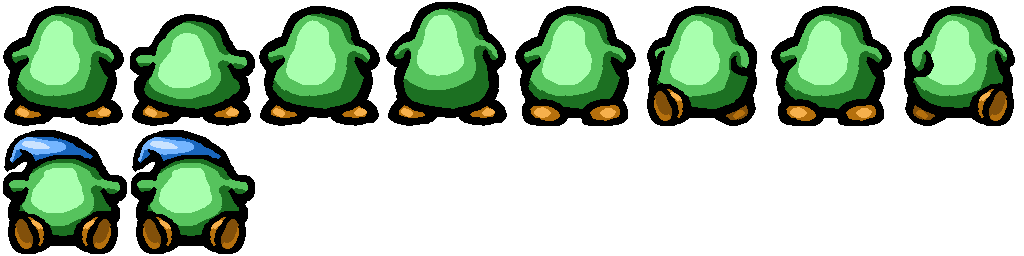
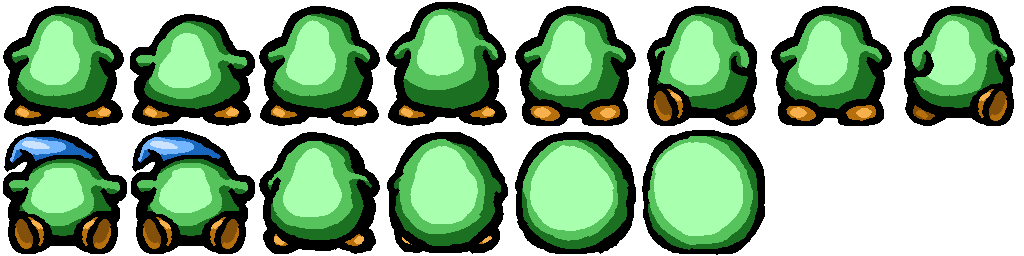
More colors, transform animation

Changed region(s): [[0.25, 0.5, 0.75, 1.0]]

diff --git a/src/Scenes/Game/Worker.cpp b/src/Scenes/Game/Worker.cpp
@@ -11,6 +11,7 @@
 
 // Constants
 static const float MOVE_TIME = 20;
+static const float TRANSFORM_TIME = 20;
 
 // Bitmap
 static Bitmap* bmpWorker;
@@ -73,7 +74,6 @@ void Worker::control(EventManager* evMan,
     float dist = hypotf(stick.x, stick.y);
     if(dist < DELTA) {
 
-        stopped = false;
         return;
     }
 
@@ -105,8 +105,6 @@ void Worker::control(EventManager* evMan,
         target.x = pos.x;
         target.y = pos.y;
 
-        stopped = false;
-
         return;
     }
 
@@ -117,7 +115,6 @@ void Worker::control(EventManager* evMan,
 
     // Update solid data
     stage->updateSolid(pos.x, pos.y, 0);
-    
 }
 
 
@@ -147,7 +144,6 @@ void Worker::move(Stage* stage, float tm) {
 
         moveTimer = 0.0f;
         moving = false;
-        stopped = true;
 
         pos.x = target.x;
         pos.y = target.y;
@@ -185,13 +181,31 @@ void Worker::animate(float tm) {
         // Awake
         else {
 
-            bool cond = (stopped || moving);
+            bool cond = (moving);
             int frameSkip = cond ? 4 : 0;
 
             // Animate sprite
             spr.animate(color*2, frameSkip, frameSkip+3, 
                 cond ? WALK_SPEED : STAND_SPEED, tm);
         }
+    }
+}
+
+
+// Transform
+void Worker::transform(float tm) {
+
+    const float ANIM_SPEED = 3.0f;
+
+    // Animate
+    if(spr.getFrame() != 5 || spr.getRow() != color*2+1)
+        spr.animate(color*2+1, 2, 5, ANIM_SPEED, tm);
+
+    // Update timer
+    transfTimer -= 1.0f *tm;
+    if(transfTimer <= 0.0f) {
+
+        transforming = false;
     }
 }
 
@@ -210,6 +224,8 @@ void Worker::checkCogCollision(Stage* stage) {
 
         isCog = true;
         moving = false;
+        transforming = true;
+        transfTimer = TRANSFORM_TIME;
 
         stage->updateSolid(pos.x, pos.y, 3+color);
     }
@@ -231,10 +247,11 @@ Worker::Worker(Point p, int color, bool sleeping, bool isCog) {
     angle = 0.0f;
 
     // Set defaults
-    stopped = false;
     moving = false;
     moveTimer = 0.0f;
     startedMoving = false;
+    transforming = false;
+    transfTimer = 0.0f;
 
     // Create sprite
     spr = Sprite(128, 128);
@@ -260,6 +277,12 @@ void Worker::update(EventManager* evMan, Stage* stage,
 
     startedMoving = false;
 
+    // Transform
+    if(isCog && transforming) {
+
+        transform(tm);
+    }
+
     // Control
     control(evMan, stage, anyMoving);
     // Move
@@ -273,26 +296,52 @@ void Worker::update(EventManager* evMan, Stage* stage,
 void Worker::draw(Graphics* g) {
 
     const float COG_SCALE = 1.2f;
+    const float TRANSF_SCALE = 1.5f;
+    const int TRANSF_FRAMES = 3;
 
     if(isCog) {
+
+        float t = transforming ? transfTimer / TRANSFORM_TIME : 0.0f;
 
         g->push();
         g->translate(vpos.x+BASE_TILE_SIZE/2, 
             vpos.y+BASE_TILE_SIZE/2);
         g->rotate(angle);
-        g->scale(COG_SCALE, COG_SCALE);
+        g->scale(COG_SCALE*(1-t), COG_SCALE*(1-t));
         g->useTransf();
 
         // Draw cog
-        spr.draw(g, bmpWorker, 7, 1, 
+        spr.draw(g, bmpWorker, 7, color*2+1, 
             -BASE_TILE_SIZE/2,
             -BASE_TILE_SIZE/2);
 
         g->pop();
         g->useTransf();
 
+        // Draw transforming sprite
+        if(transforming) {
+
+            float s = 1.0f + (1.0f-t) * (TRANSF_SCALE-1.0f);
+
+            g->push();
+            g->translate(vpos.x+BASE_TILE_SIZE/2, 
+                vpos.y+BASE_TILE_SIZE/2);
+            g->scale(s, s);
+            g->useTransf();
+
+            g->setColor(1,1,1, t);
+            spr.draw(g, bmpWorker,
+                -BASE_TILE_SIZE/2,
+                -BASE_TILE_SIZE/2);
+            g->setColor();
+
+            g->pop();
+            g->useTransf();
+            
+        }
+
         // Draw eyes/face
-        spr.draw(g, bmpWorker, 6, 1, vpos.x, vpos.y);
+        spr.draw(g, bmpWorker, 6, color*2+1, vpos.x, vpos.y);
 
     }
     else {

diff --git a/src/Scenes/Game/Stage.cpp b/src/Scenes/Game/Stage.cpp
@@ -226,12 +226,8 @@ Stage::Stage(std::string mapPath) {
     width = tmap->getWidth();
     height = tmap->getHeight();
 
-    // Set default solid data
-    solid = std::vector<int> (width*height);
-    for(int i = 0; i < width*height; ++ i) {
-
-        solid[i] = data[i] == 1 ? 1 : 0;
-    }
+    // (Re)set some data
+    reset();
 
     // Compute scale
     baseWidth = width * BASE_TILE_SIZE;
@@ -247,6 +243,18 @@ Stage::Stage(std::string mapPath) {
 Stage::~Stage() {
 
     delete tmap;
+}
+
+
+// Reset
+void Stage::reset() {
+
+    // Set default solid data
+    solid = std::vector<int> (width*height);
+    for(int i = 0; i < width*height; ++ i) {
+
+        solid[i] = data[i] == 1 ? 1 : 0;
+    }
 }
 
 
@@ -313,8 +321,8 @@ void Stage::parseMap(Communicator &comm) {
             // Update solid data
             int solid = 2;
             if(sleeping) solid = 1;
-            if(isCog) solid = 3;
-            updateSolid(p.x, p.y, solid+color);
+            if(isCog) solid = 3+color;
+            updateSolid(p.x, p.y, solid);
         }
     }
 }

diff --git a/src/Scenes/Game/Game.cpp b/src/Scenes/Game/Game.cpp
@@ -12,6 +12,20 @@
 #include <GLFW/glfw3.h>
 
 
+// Reset the current game state
+void Game::reset() {
+
+    // Reset stage
+    stage->reset();
+    // Reset hud
+    hud.reset();
+
+    // Reset workers
+    workers.clear();
+    stage->parseMap(comm);
+}
+
+
 // Initialize scene
 void Game::init() {
 
@@ -42,6 +56,12 @@ void Game::init() {
 // Update scene
 void Game::update(float tm) {
 
+    // Reset
+    if(evMan->getController()->getButton("reset") == State::Pressed) {
+
+        reset();
+    }
+
     // "Pre-update"
     bool anyMoving = false;
     for(int i = 0; i < workers.size(); ++ i) {
@@ -50,7 +70,7 @@ void Game::update(float tm) {
         workers[i].checkCogCollision(stage);
 
         // Is moving
-        if(!anyMoving && workers[i].isMoving()) {
+        if(!anyMoving && workers[i].isActive()) {
 
             anyMoving = true;
         }
@@ -109,6 +129,7 @@ void Game::dispose() {
 void Game::onChange() {
 
     // ...
+    
 }
 
 

diff --git a/src/Scenes/Game/Worker.hpp b/src/Scenes/Game/Worker.hpp
@@ -32,6 +32,11 @@ private:
     // Has started moving
     bool startedMoving;
 
+    // Is transforming
+    bool transforming;
+    // Transform timer
+    float transfTimer;
+
     // Cog angle
     float angle;
 
@@ -55,6 +60,9 @@ private:
     void move(Stage* stage, float tm);
     // Animate
     void animate(float tm);
+    
+    // Transform
+    void transform(float tm);
 
 public:
 
@@ -79,6 +87,10 @@ public:
     inline bool hasStartedMoving() {
 
         return startedMoving;
+    }
+    inline bool isActive() {
+
+        return transforming || moving;
     }
 };
 

diff --git a/src/Core/InputListener.cpp b/src/Core/InputListener.cpp
@@ -79,13 +79,6 @@ int InputListener::getInputState(std::vector<int> arr, int index) {
 }
 
 
-// Update joystick hat
-void InputListener::updateJoyHat(const uint8* buttons) {
-
-    
-}
-
-
 // Update joystick
 void InputListener::updateJoystick(float x, float y) {
 
@@ -175,9 +168,5 @@ void InputListener::updateInput() {
 			}
 			joybuffer[i] = state;
         }
-
-        // Update joy hat
-        updateJoyHat(buttons);
-        
     }
 }

diff --git a/src/Core/InputListener.hpp b/src/Core/InputListener.hpp
@@ -46,9 +46,6 @@ protected:
     // Get input state
     int getInputState(std::vector<int> arr, int index);
 
-    // Update joystick hat
-    void updateJoyHat(const uint8* buttons);
-
 public:
 
     // Keyboard events

diff --git a/src/Scenes/Game/Stage.hpp b/src/Scenes/Game/Stage.hpp
@@ -67,6 +67,8 @@ public:
     // Desctructor
     ~Stage();
 
+    // Reset
+    void reset();
     // Parse map for objects
     void parseMap(Communicator &comm);
 

diff --git a/src/Scenes/Game/Game.hpp b/src/Scenes/Game/Game.hpp
@@ -28,6 +28,9 @@ private:
 
 public:
 
+    // Reset the current game state
+    void reset();
+
     // Initialize scene
     void init();
     // Update scene

diff --git a/src/Scenes/Game/Hud.cpp b/src/Scenes/Game/Hud.cpp
@@ -61,3 +61,10 @@ void Hud::draw(Graphics* g) {
         SHADOW_ALPHA,
     SCALE, false);
 }
+
+
+// Reset
+void Hud::reset() {
+
+    time = 0;
+}

diff --git a/src/Scenes/Game/Hud.hpp b/src/Scenes/Game/Hud.hpp
@@ -40,6 +40,9 @@ public:
         turnTarget = t;
     }
 
+    // Reset
+    void reset();
+
 };
 
 #endif // __HUD_H__
